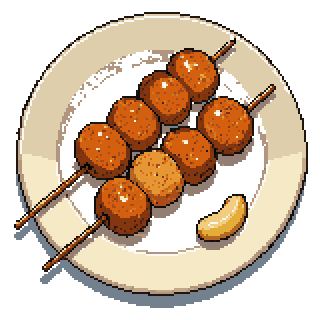
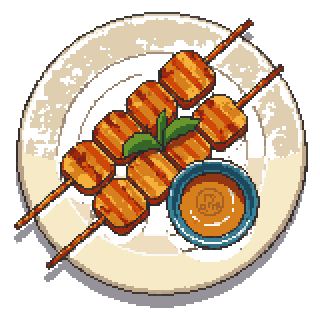
[orchestrator] drafts: restore sushi day, milkshake and fries badges (not asked to redo); new satay badge
Only satay, icon_greek and icon_italian were requested. The fries redo drawn before the stop is kept
in assets/drafts/pixellab_extra/.

diff --git a/assets/drafts/pixellab/index.html b/assets/drafts/pixellab/index.html
@@ -42,7 +42,7 @@ h2 { color:var(--label); font-size:16px; letter-spacing:.06em; text-transform:up
 </header>
 <main id="main"></main>
 <script>
-const JOBS = {"badges": [{"key": "badge_satay_incident", "subject": "A plate of grilled satay skewers with a single peanut set apart beside it, like a warning, accents in slate blue #4a6573", "variants": 2}, {"key": "badge_trip_fund", "subject": "A glass coin jar stuffed with coins and folded bills, a small seashell resting on the lid as a hint of the coast, accents in purple #7a4bb0", "variants": 2}, {"key": "badge_plate_of_fries", "subject": "A humble plate of golden fries in front of a tall double-stack burger, the fries in the spotlight, accents in deep orange #b8641a", "variants": 2}, {"key": "badge_milkshake_incident", "subject": "An oversized milkshake in a tall glass with whipped cream, a cherry and a striped straw, comically huge, accents in brick red #a3472c", "variants": 2}, {"key": "badge_sushi_day", "subject": "A wooden sushi board of meat-free sushi: cucumber rolls, avocado rolls and sweet tofu pockets, with a little garnish, accents in deep orange #b8641a", "variants": 2}], "icons": [{"key": "icon_noodles", "subject": "A bowl of steaming ramen noodles with chopsticks resting on the rim", "variants": 2}, {"key": "icon_sushi", "subject": "A single salmon nigiri sushi piece", "variants": 2}, {"key": "icon_pizza", "subject": "A single slice of pepperoni pizza with melted cheese", "variants": 2}, {"key": "icon_burgers", "subject": "A cheeseburger with lettuce, tomato and a sesame bun", "variants": 2}, {"key": "icon_tacos", "subject": "A single taco in a folded corn tortilla with meat, salsa and lettuce", "variants": 2}, {"key": "icon_curry", "subject": "A bowl of golden curry with a mound of white rice", "variants": 2}, {"key": "icon_cafe", "subject": "A cup of coffee with latte art and a wisp of steam", "variants": 2}, {"key": "icon_dim_sum", "subject": "A round bamboo steamer with three dumplings inside", "variants": 2}, {"key": "icon_greek", "subject": "A gyro pita wrap with meat, tomato and white tzatziki sauce", "variants": 2}, {"key": "icon_viet", "subject": "A banh mi baguette sandwich with pickled carrot, cucumber and fresh herbs", "variants": 2}, {"key": "icon_thai", "subject": "A bowl of tom yum soup with shrimp, a red chilli and a lime wedge", "variants": 2}, {"key": "icon_italian", "subject": "A bowl of spaghetti with red tomato sauce and a basil leaf", "variants": 2}, {"key": "icon_ice_cream", "subject": "An ice cream cone with two scoops", "variants": 2}]};
+const JOBS = {"badges": [{"key": "badge_satay_incident", "subject": "A plate of grilled satay skewers with a small ramekin of peanut sauce set on the side, accents in slate blue #4a6573", "variants": 2}, {"key": "badge_trip_fund", "subject": "A glass coin jar stuffed with coins and folded bills, a small seashell resting on the lid as a hint of the coast, accents in purple #7a4bb0", "variants": 2}, {"key": "badge_plate_of_fries", "subject": "A humble plate of golden fries in front of a tall double-stack burger, the fries in the spotlight, accents in deep orange #b8641a", "variants": 2}, {"key": "badge_milkshake_incident", "subject": "An oversized milkshake in a tall glass with whipped cream, a cherry and a striped straw, comically huge, accents in brick red #a3472c", "variants": 2}, {"key": "badge_sushi_day", "subject": "A wooden sushi board of meat-free sushi: cucumber rolls, avocado rolls and sweet tofu pockets, with a little garnish, accents in deep orange #b8641a", "variants": 2}], "icons": [{"key": "icon_noodles", "subject": "A bowl of steaming ramen noodles with chopsticks resting on the rim", "variants": 2}, {"key": "icon_sushi", "subject": "A single salmon nigiri sushi piece", "variants": 2}, {"key": "icon_pizza", "subject": "A single slice of pepperoni pizza with melted cheese", "variants": 2}, {"key": "icon_burgers", "subject": "A cheeseburger with lettuce, tomato and a sesame bun", "variants": 2}, {"key": "icon_tacos", "subject": "A single taco in a folded corn tortilla with meat, salsa and lettuce", "variants": 2}, {"key": "icon_curry", "subject": "A bowl of golden curry with a mound of white rice", "variants": 2}, {"key": "icon_cafe", "subject": "A cup of coffee with latte art and a wisp of steam", "variants": 2}, {"key": "icon_dim_sum", "subject": "A round bamboo steamer with three dumplings inside", "variants": 2}, {"key": "icon_greek", "subject": "A chicken souvlaki plate: grilled chicken skewer pieces on a round plate with a folded pita, tomato and a dollop of white tzatziki", "variants": 2}, {"key": "icon_viet", "subject": "A banh mi baguette sandwich with pickled carrot, cucumber and fresh herbs", "variants": 2}, {"key": "icon_thai", "subject": "A bowl of tom yum soup with shrimp, a red chilli and a lime wedge", "variants": 2}, {"key": "icon_italian", "subject": "A plate of spaghetti with red tomato sauce and meatballs on top", "variants": 2}, {"key": "icon_ice_cream", "subject": "An ice cream cone with two scoops", "variants": 2}]};
 const KEY = "lets-eat-draft-picks";
 let picks = {};
 try { picks = JSON.parse(localStorage.getItem(KEY) || "{}"); } catch (e) {}
